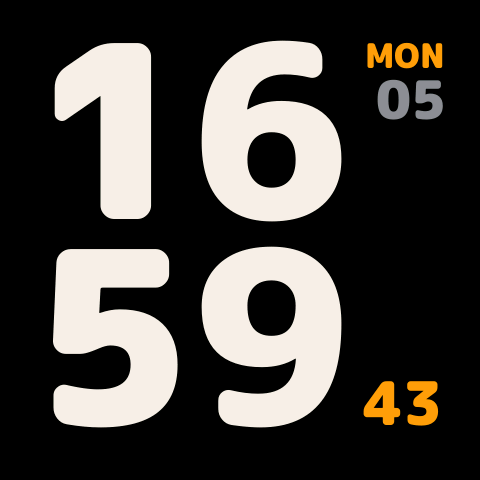
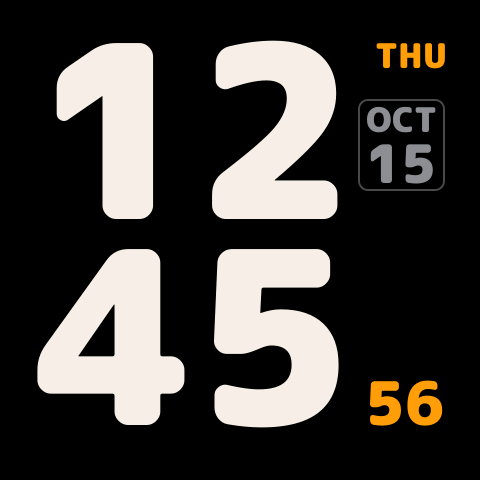
docs: describe the framed date
New screenshots from the board (right and left column) and the month
and frame in the feature list, font sizes and date specification.

diff --git a/README.md b/README.md
@@ -13,7 +13,7 @@ The screenshots are read back from a real board with `tools/screenshot.py`; the 
 ## Features
 
 - Hours and minutes in tabular digits, aligned column by column; seconds in small type at the minutes' lower corner.
-- Weekday and day of month at the top of the side column. The day always has two digits and one fixed size, chosen so the widest day is as wide as "SUN"; both sit with their ink on the column's outer edge. AM/PM in 12-hour mode.
+- Weekday at the top of the side column, its ink on the column's outer edge. Below it the month ("OCT") and the day in a thin rounded frame, centred between the weekday and the SYNC/BATT indicator (in 12-hour mode between the weekday and AM/PM). The day always has two digits and one fixed size, chosen so the widest day is as wide as "SUN". One setting shows or hides weekday, month and day together.
 - Time sync over NTP every hour, with up to three servers you can edit (defaults `tock.stdtime.gov.tw`, `time.stdtime.gov.tw`, `pool.ntp.org`). Each sync asks four times and keeps the answer with the shortest round trip, corrected for the network delay, so Wi-Fi power save on battery does not throw it off. The PCF85063 RTC is kept in step with NTP, and the clock starts from the RTC time after a restart, so it keeps working without Wi-Fi. The RTC's drift is measured at every sync and corrected automatically.
 - Eight brightness levels, remembered separately for day and night; automatic night dimming (default 23:00–07:00).
 - Screen-off schedule (default 03:00–09:00): the panel is off in that window; a button press or a tap shows the clock for 30 s.
@@ -141,15 +141,15 @@ The digits and text are pre-rendered from a TrueType font. To use another one:
 .venv/bin/pio run -t upload
 ```
 
-The layout (column widths, date size, positions) is recalculated for the new font. The generator stops with an error if any glyph would come closer than 12 px to the screen edge at the largest drift, or if digits, the two rows or the side-column text would overlap. Check the font's license before publishing it.
+The layout (column widths, date size, positions) is recalculated for the new font. The generator stops with an error if any glyph would come closer than 12 px to the screen edge at the largest drift, if digits, the two rows or the side-column text would overlap, or if the date frame would come closer than 12 px to the hour digits or not fit between the weekday and SYNC/BATT or AM/PM. Check the font's license before publishing it.
 
 ## Specifications
 
 | Item | Value | Notes |
 |---|---|---|
-| Font | M PLUS Rounded 1c Black | Hours/minutes 176 px cap height, seconds 44 px, weekday 25 px, date 39 px, UI text 22 px; ASCII only |
+| Font | M PLUS Rounded 1c Black | Hours/minutes 176 px cap height, seconds 44 px, weekday and month 25 px, day 39 px, UI text 22 px; ASCII only |
 | Layout | Digit columns 159 px; baselines y = 225 / 431; side column 80 px | Digits at x = 35 (column right) or x = 127 (column left) |
-| Date | Two tabular digits in 35 px cells; the widest day is 68 px of ink | "SUN" is 67 px of ink; the day is placed by its ink on the column edge, like the weekday |
+| Date | Month above two tabular digits in 35 px cells, both centred by their ink in an 87 × 92 px frame (2 px line in #48484A, corner radius 10 px) whose outer side is on the column edge | Widest month (MAY) 73 px of ink, widest day 68 px, "SUN" 67 px. Frame top y = 105, or 91 in 12-hour mode; 12 px from the hour digits |
 | Edge margin | ≥ 29 px left, 30 right, 40 top, 41 bottom | At the largest drift, both sides, all digits and labels |
 | Rendering | 480 × 32 px bands, only changed areas redrawn | The ESP32-C6 has no PSRAM for a full 450 KB frame |
 | Time sync | NTP every 3600 s, own client (RFC 5905): 4 queries 2 s apart to the first of up to 3 servers that answers; the answer with the shortest round trip sets the clock, offset ((t2 − t1) + (t3 − t4)) / 2 | Host names or IPv4 addresses (letters, digits, `.`, `-`, up to 63 characters); all empty restores the defaults. After a failure: again after 30 s, doubling up to 10 min. An answer whose error bound (the round trip plus the server's root delay, halved) is over 50 ms is used only when the clock may by now be further off: the last sync's bound plus 20 ppm since (5× the drift measured here); the first after start-up is always used. Against a Mac, 8 forced syncs: spread 3.4 ms, 3.5 ms with Wi-Fi power save (lwIP's SNTP before, 10 syncs: 45 ms and 115 ms) |

diff --git a/README.zh-TW.md b/README.zh-TW.md
@@ -13,7 +13,7 @@
 ## 功能
 
 - 時、分使用等寬數字，上下兩列逐欄對齊；秒數以小字放在分鐘旁的下角。
-- 側欄上方顯示星期與日期。日期固定兩位數、固定字級，最寬的日期與「SUN」同寬；星期與日期都以實際字跡貼齊側欄外緣。12 小時制時加上 AM／PM。
+- 側欄最上方是星期，字跡貼齊側欄外緣。下方是月份（如「OCT」）與日期，外圍一圈細圓角框，整塊置中在星期與 SYNC／BATT 提示之間（12 小時制時改為星期與 AM／PM 之間）。日期固定兩位數、固定字級，最寬的日期與「SUN」同寬。星期、月份與日期由同一個設定一起顯示或隱藏。
 - 每小時透過 NTP 對時，最多 3 個伺服器、可在網頁自行填寫（預設 `tock.stdtime.gov.tw`、`time.stdtime.gov.tw`、`pool.ntp.org`）。每次對時連問 4 次，取來回最快的那次並扣掉網路延遲，所以用電池時的 Wi-Fi 省電模式也不會讓時間跑掉。PCF85063 RTC 會跟著 NTP 保持準確，重新開機時先採用 RTC 的時間，所以沒有 Wi-Fi 也能正常走時。每次對時都會量測 RTC 的快慢並自動補償。
 - 亮度 8 段，白天、夜間各自記憶；夜間時段自動調暗（預設 23:00–07:00）。
 - 定時關閉螢幕（預設 03:00–09:00）：時段內螢幕關閉，按任一鍵或輕觸會亮 30 秒。
@@ -141,15 +141,15 @@ tests/run.sh
 .venv/bin/pio run -t upload
 ```
 
-版面（欄寬、日期字級、位置）會依新字型重新計算。最大飄移時有字跡離螢幕邊緣不到 12 px，或數字、上下兩列、側欄文字會互相重疊時，產生器會報錯停止。公開前請確認字型授權。
+版面（欄寬、日期字級、位置）會依新字型重新計算。最大飄移時有字跡離螢幕邊緣不到 12 px，或數字、上下兩列、側欄文字會互相重疊，或日期外框離時數字不到 12 px、放不進星期與 SYNC／BATT 或 AM／PM 之間時，產生器會報錯停止。公開前請確認字型授權。
 
 ## 規格
 
 | 項目 | 數值 | 說明 |
 |---|---|---|
-| 字型 | M PLUS Rounded 1c Black | 時分字高 176 px、秒 44 px、星期 25 px、日期 39 px、介面文字 22 px；只含 ASCII |
+| 字型 | M PLUS Rounded 1c Black | 時分字高 176 px、秒 44 px、星期與月份 25 px、日期 39 px、介面文字 22 px；只含 ASCII |
 | 版面 | 數字欄寬 159 px；基線 y = 225／431；側欄寬 80 px | 側欄在右時數字 x = 35，在左時 x = 127 |
-| 日期 | 兩位等寬數字，每格 35 px；最寬的日期字跡 68 px | 「SUN」字跡 67 px；日期和星期一樣，以字跡貼齊側欄外緣 |
+| 日期 | 月份在上、兩位等寬數字（每格 35 px）在下，都以字跡置中在 87 × 92 px 的外框內（2 px 線、顏色 #48484A、圓角半徑 10 px），外框外側貼齊側欄外緣 | 最寬的月份（MAY）字跡 73 px、最寬的日期 68 px、「SUN」67 px。外框上緣 y = 105，12 小時制為 91；離時數字 12 px |
 | 邊距 | 左 ≥ 29、右 30、上 40、下 41 px | 最大飄移、左右兩種排列、所有數字與標籤 |
 | 繪圖 | 每次 480 × 32 px 一帶，只重畫變動區域 | ESP32-C6 沒有 PSRAM，放不下 450 KB 的整張畫面 |
 | 對時 | NTP 每 3600 秒，自寫用戶端（RFC 5905）：依序找最多 3 個伺服器中第一個有回應的，間隔 2 秒問 4 次；來回最快的那次設定時鐘，偏移 ((t2 − t1) + (t3 − t4)) / 2 | 主機名稱或 IPv4（英數字、`.`、`-`，最長 63 字元）；三個都留空恢復預設。失敗後 30 秒重試，每次加倍，最長 10 分鐘。誤差上限（來回時間加上伺服器 root delay 的一半）超過 50 ms 的回應，只在時鐘此刻可能偏得更多時才採用：上次對時的誤差上限，加上之後以 20 ppm 累積的漂移（這裡量到的漂移的 5 倍）；開機後第一次一律採用。以 Mac 為基準強制對時 8 次：誤差範圍 3.4 ms，Wi-Fi 省電時 3.5 ms（原本的 lwIP SNTP，各 10 次：45 ms 與 115 ms） |
